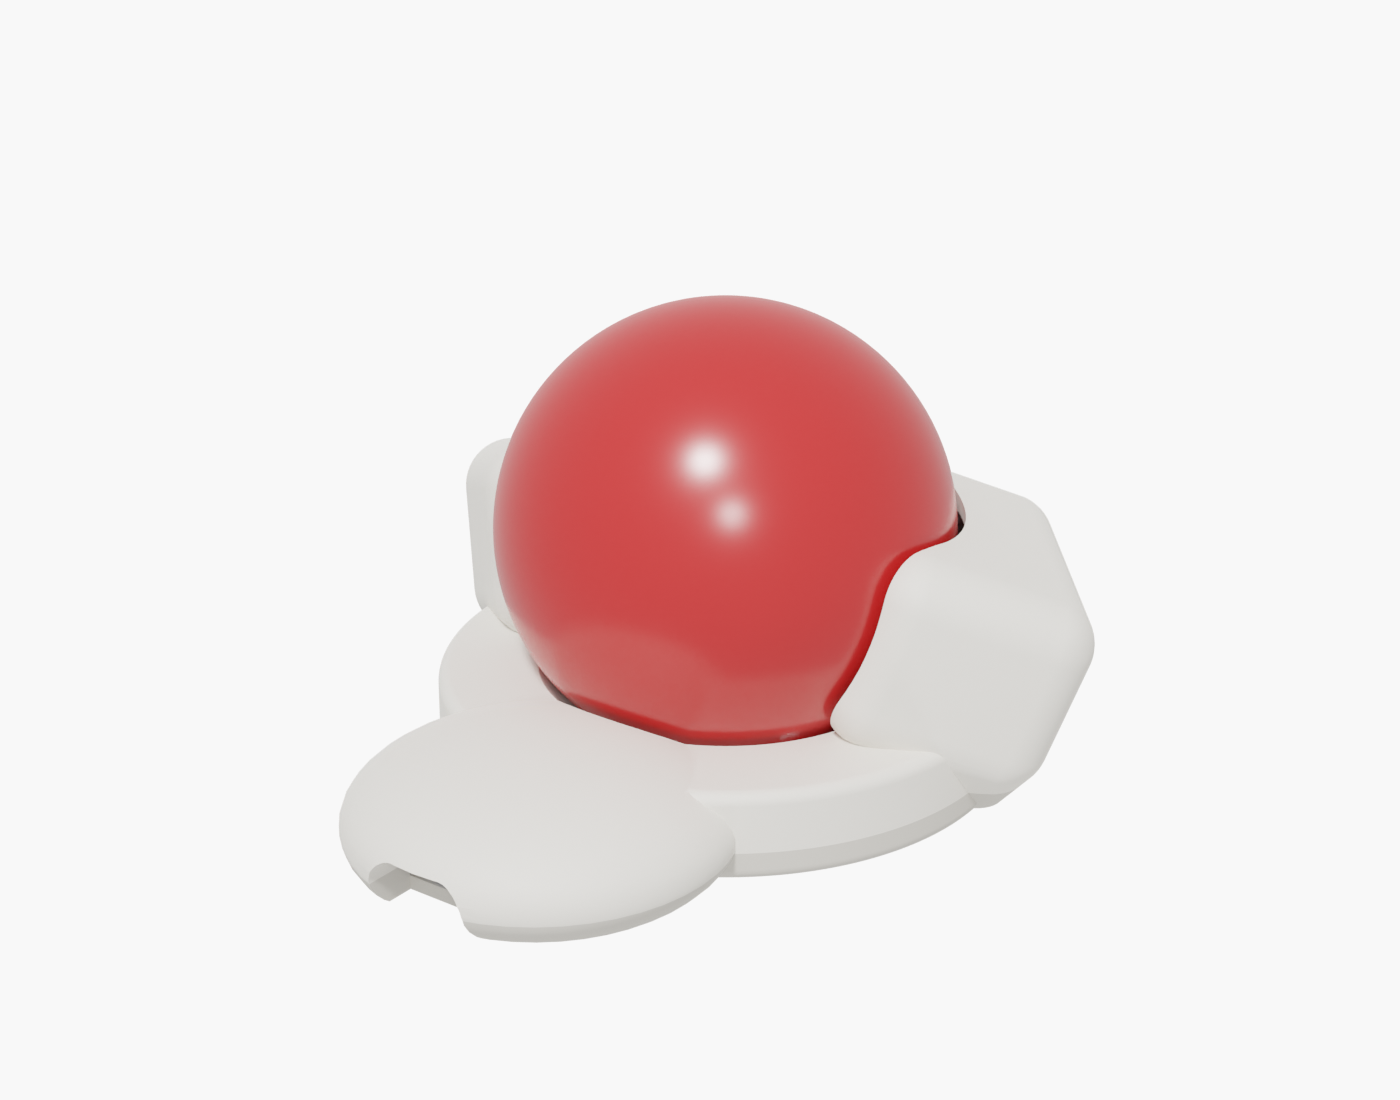
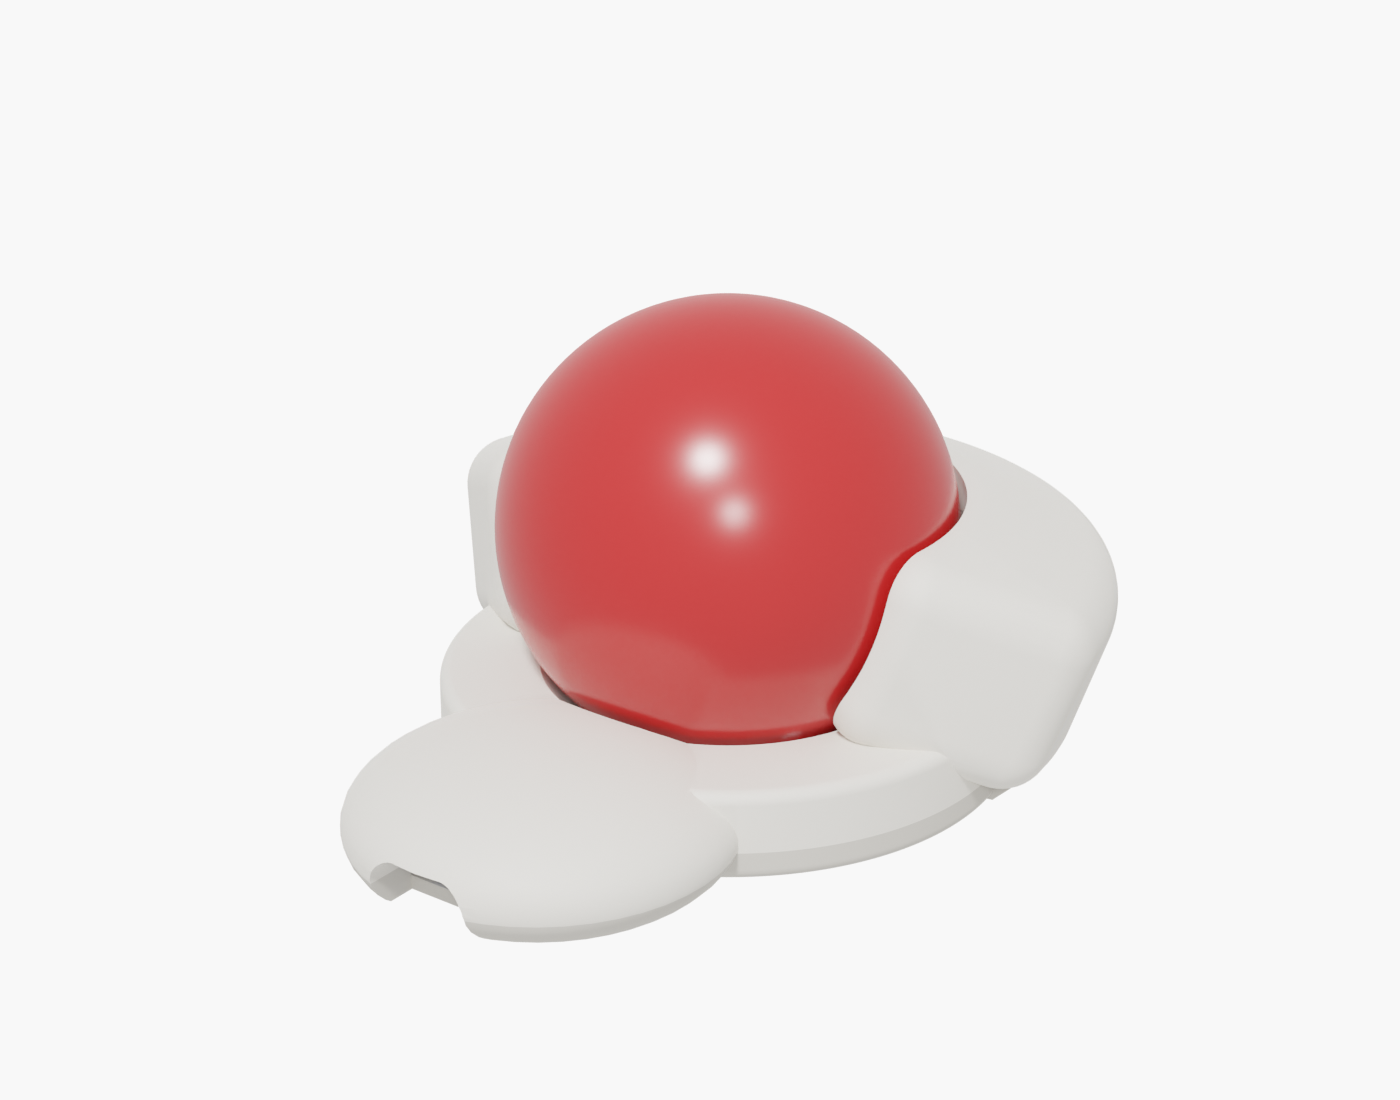
One ring round the back for sensors and battery, sensor covers, USB plug check
The sensor pods become a single ring round the back half of the ball, and
the battery stands in it between the sensors at their tilt, going in from
below. A printed cover with a lens window goes over each sensor board under
its two screws (now M2 x 10). usb_check tries the biggest USB-C plug against
the case; the wall that blocked the receptacle is opened.

diff --git a/case/render_exploded.py b/case/render_exploded.py
@@ -48,7 +48,8 @@ def material(name, colour, roughness=0.5, metallic=0.0):
 
 PIECES = [  # piece, colour, roughness, metallic
     ("body", "#d8d4cc", 0.6, 0), ("cover", "#b8b4ac", 0.6, 0), ("ball", "#b22222", 0.25, 0),
-    ("supports", "#f4f4f4", 0.2, 0), ("screws", "#696969", 0.35, 1), ("pouch", "#c0c0c0", 0.3, 1),
+    ("supports", "#f4f4f4", 0.2, 0), ("screws", "#696969", 0.35, 1),
+    ("sensor_covers", "#c8c4bc", 0.6, 0), ("sensor_screws", "#696969", 0.35, 1), ("pouch", "#c0c0c0", 0.3, 1),
     ("pcm", "#d4a017", 0.5, 0), ("leads", "#8b1a1a", 0.5, 0)]
 
 for name, colour, rough, metal in PIECES:

diff --git a/readme.md b/readme.md
@@ -6,14 +6,15 @@ An attempt to make a cheap, solid and low profile DIY finger trackball.
 The ball floats just 1 mm above the table on three ceramic support balls.
 Two PMW3610 sensors look up at the ball from below its equator, placed so
 their lines of sight are orthogonal (X, Y and twist are all observable);
-their boards lie on their sides, which keeps the two pods behind the ball
-low. A Seeed XIAO nRF52840 running ZMK lies flat under a low dome in front of
+their boards lie on their sides in a low ring round the back half of the
+ball, each behind a printed cover that follows the ball and has a window for
+the lens. A Seeed XIAO nRF52840 running ZMK lies flat under a low dome in front of
 the ball, soldered upside down onto a base PCB that sits in a groove in the
 underside; an FPC ribbon runs from each sensor board to it. The 602020 LiPo
-lies flat in a pocket at the back, between the sensor pods and away from the
-XIAO's antenna, its leads running round in a groove. A cover, a separate
-printed part, closes the whole underside (battery pocket included), held by
-six screws.
+stands in the same ring, between the two sensors and away from the XIAO's
+antenna, leaning against the ball at the sensor boards' tilt; its leads run
+round in a groove. A cover, a separate printed part, closes the whole
+underside (the battery's pocket included), held by six screws.
 
 ![Assembled](case/renders/assembled.png)
 
@@ -21,9 +22,12 @@ six screws.
 
 - `case/rollino.scad` - parametric OpenSCAD model (ball size, sensor/MCU
   placement, battery, ...). Set `part` to `assembly`, `exploded`, `hardware`, `section`,
-  or `body` / `base_cover` for the two printable parts. `fpc_check` and
-  `wall_check` should both come out empty: there is room to pull the ribbons
-  through, and no cavity comes too close to the outside.
+  or `body` / `base_cover` / `sensor_cover` (print two) for the printable
+  parts. `fpc_check`, `wall_check` and `usb_check` should come out empty:
+  there is room to pull the ribbons through, no cavity comes too close to
+  the outside (`wall_check` does show the open end of the USB plug's recess),
+  and the biggest USB-C plug the spec allows (12.35 x 6.5 mm overmold) goes
+  in, 0.35 mm clear of the table.
 - `case/renders/` - preview renders: `case/render_previews.sh` (OpenSCAD) and
   `case/render_exploded.sh` (Blender, with KiCad's 3D models of the boards:
   the assembled and the exploded view).

diff --git a/parts.md b/parts.md
@@ -2,7 +2,8 @@ Parts list
 ==========
 
 Everything for one Rollino; quantities are totals (it has two sensor boards).
-The case itself (`body` and `base_cover` in `case/rollino.scad`) is printed.
+The case itself (`body`, `base_cover` and two of `sensor_cover` in
+`case/rollino.scad`) is printed.
 
 PCBs
 ----
@@ -27,7 +28,7 @@ Electronics
 | 2 | TI TPS7A0518PDBVR (1.8 V LDO, SOT-23-5) | sensor U2 | |
 | 4 | Hirose FH12-6S-0.5SH(55) (or JUSHUO AFC01-S06FCA) | sensor J1, base J1/J2 | 6-pin, 0.5 mm FPC connector |
 | 2 | 6-way FFC, 0.5 mm pitch, 50 mm, **same-side (type A) contacts** | sensor to base | for 0.3 mm thick FPC connectors (FH12); 50 mm is the stock length |
-| 1 | LiPo 602020, about 200 mAh, with protection board | pocket at the back of the case | up to 22 x 20 x 6.5 mm; its leads run round in a groove to the XIAO's battery pads and need to be about 90 mm long (extend them if they are shorter) |
+| 1 | LiPo 602020, about 200 mAh, with protection board | pocket in the ring at the back of the case | up to 22 x 20 x 6.5 mm; goes in from below, protection board down; its leads run round in a groove to the XIAO's battery pads and need to be about 90 mm long (extend them if they are shorter) |
 
 Passives, all 0603, for both sensor boards together (10 V or more; the 10 uF
 X7R is the scarce one, for instance Murata GRM188Z71A106KA73D, and 6.3 V
@@ -53,9 +54,10 @@ Mechanical
 | 1 | 55 mm trackball ball | the size Kensington's trackballs use (Expert Mouse, SlimBlade), sold as replacements |
 | 3 | 3 mm ceramic bearing balls (ZrO2 or Si3N4) | the ball's supports; get a few spares |
 | 6 | M2 x 8 countersunk thread-forming screws for plastic | through the cover (four of them through the base board too) into the case |
-| 4 | M2 x 6 thread-forming screws for plastic, low (pan or wafer) head | two through each sensor board |
+| 4 | M2 x 10 thread-forming screws for plastic, pan head (up to 3.8 mm across) | two through each sensor cover and board |
 
 Screw lengths are from the model: the cover and base board are 5.2 mm
 together, with 4.5 mm pilot holes above them (the two screws beside the
 battery go through the cover only, into holes as much deeper); each sensor
-board is 1.6 mm, with a 5 mm pilot hole behind it.
+cover is 3.5 mm under the screw heads and each sensor board 1.6 mm, with a
+5.5 mm pilot hole behind it (without the covers, M2 x 6 would do).

diff --git a/pcb/readme.md b/pcb/readme.md
@@ -45,7 +45,8 @@ The same board for both sensors. It lies on its side (the chip's long axis
 horizontal, the connector end towards the front of the case), so the left
 one is turned half a turn from the right one. It's screwed into its pod from
 the ball side with two M2 screws, chip side out, lens towards the ball; the
-case's pocket matches its outline, ear included.
+case's pocket matches its outline, ear included, and a printed cover with a
+window for the lens goes in on top of it, under the same two screws.
 
 - PMW3610DM-SUDU + LM18-LSI lens: circuit and footprint (with the lens cutout)
   after [badjeff/pmw3610-pcb](https://github.com/badjeff/pmw3610-pcb)
@@ -95,7 +96,7 @@ way round each side, held (with the cover under it) by four M2 screws.
 - Seeed XIAO nRF52840 soldered **upside down** by its castellated edges: its
   parts (USB-C included) hang through the cutout into a pocket in the cover;
   its battery pads face up, and the LiPo's leads (which come round from the
-  battery's pocket at the back of the case, and up behind the XIAO's far
+  battery's pocket in the ring at the back of the case, and up behind the XIAO's far
   corner) solder straight onto them
 - J1 (right sensor) and J2 (left) at the band's ends, along it, mouths facing
   the ribbons coming along the channel in the case's underside
